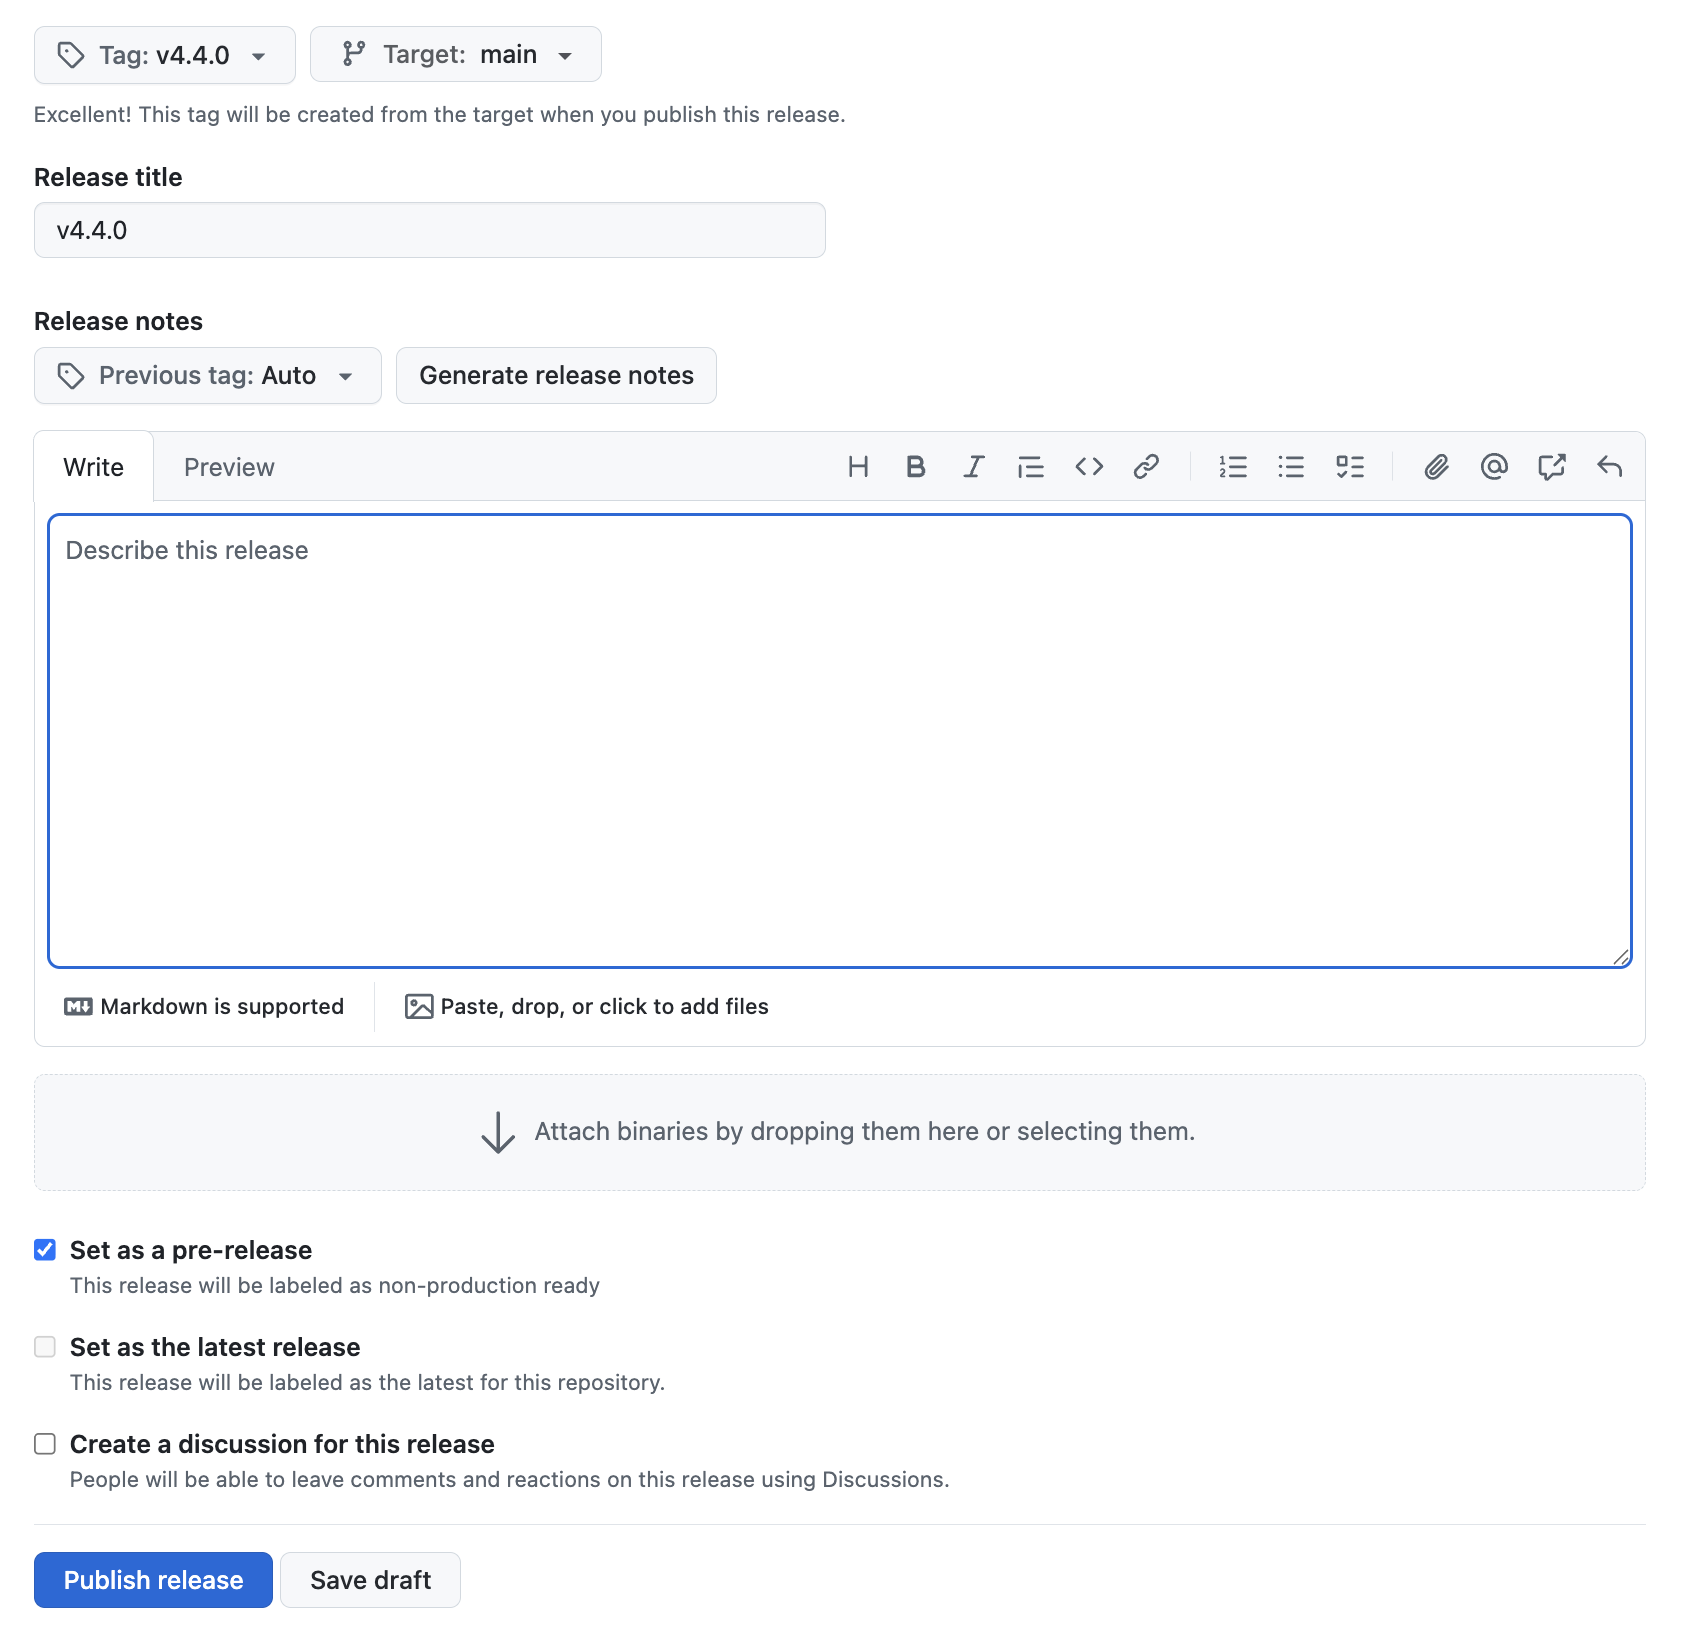
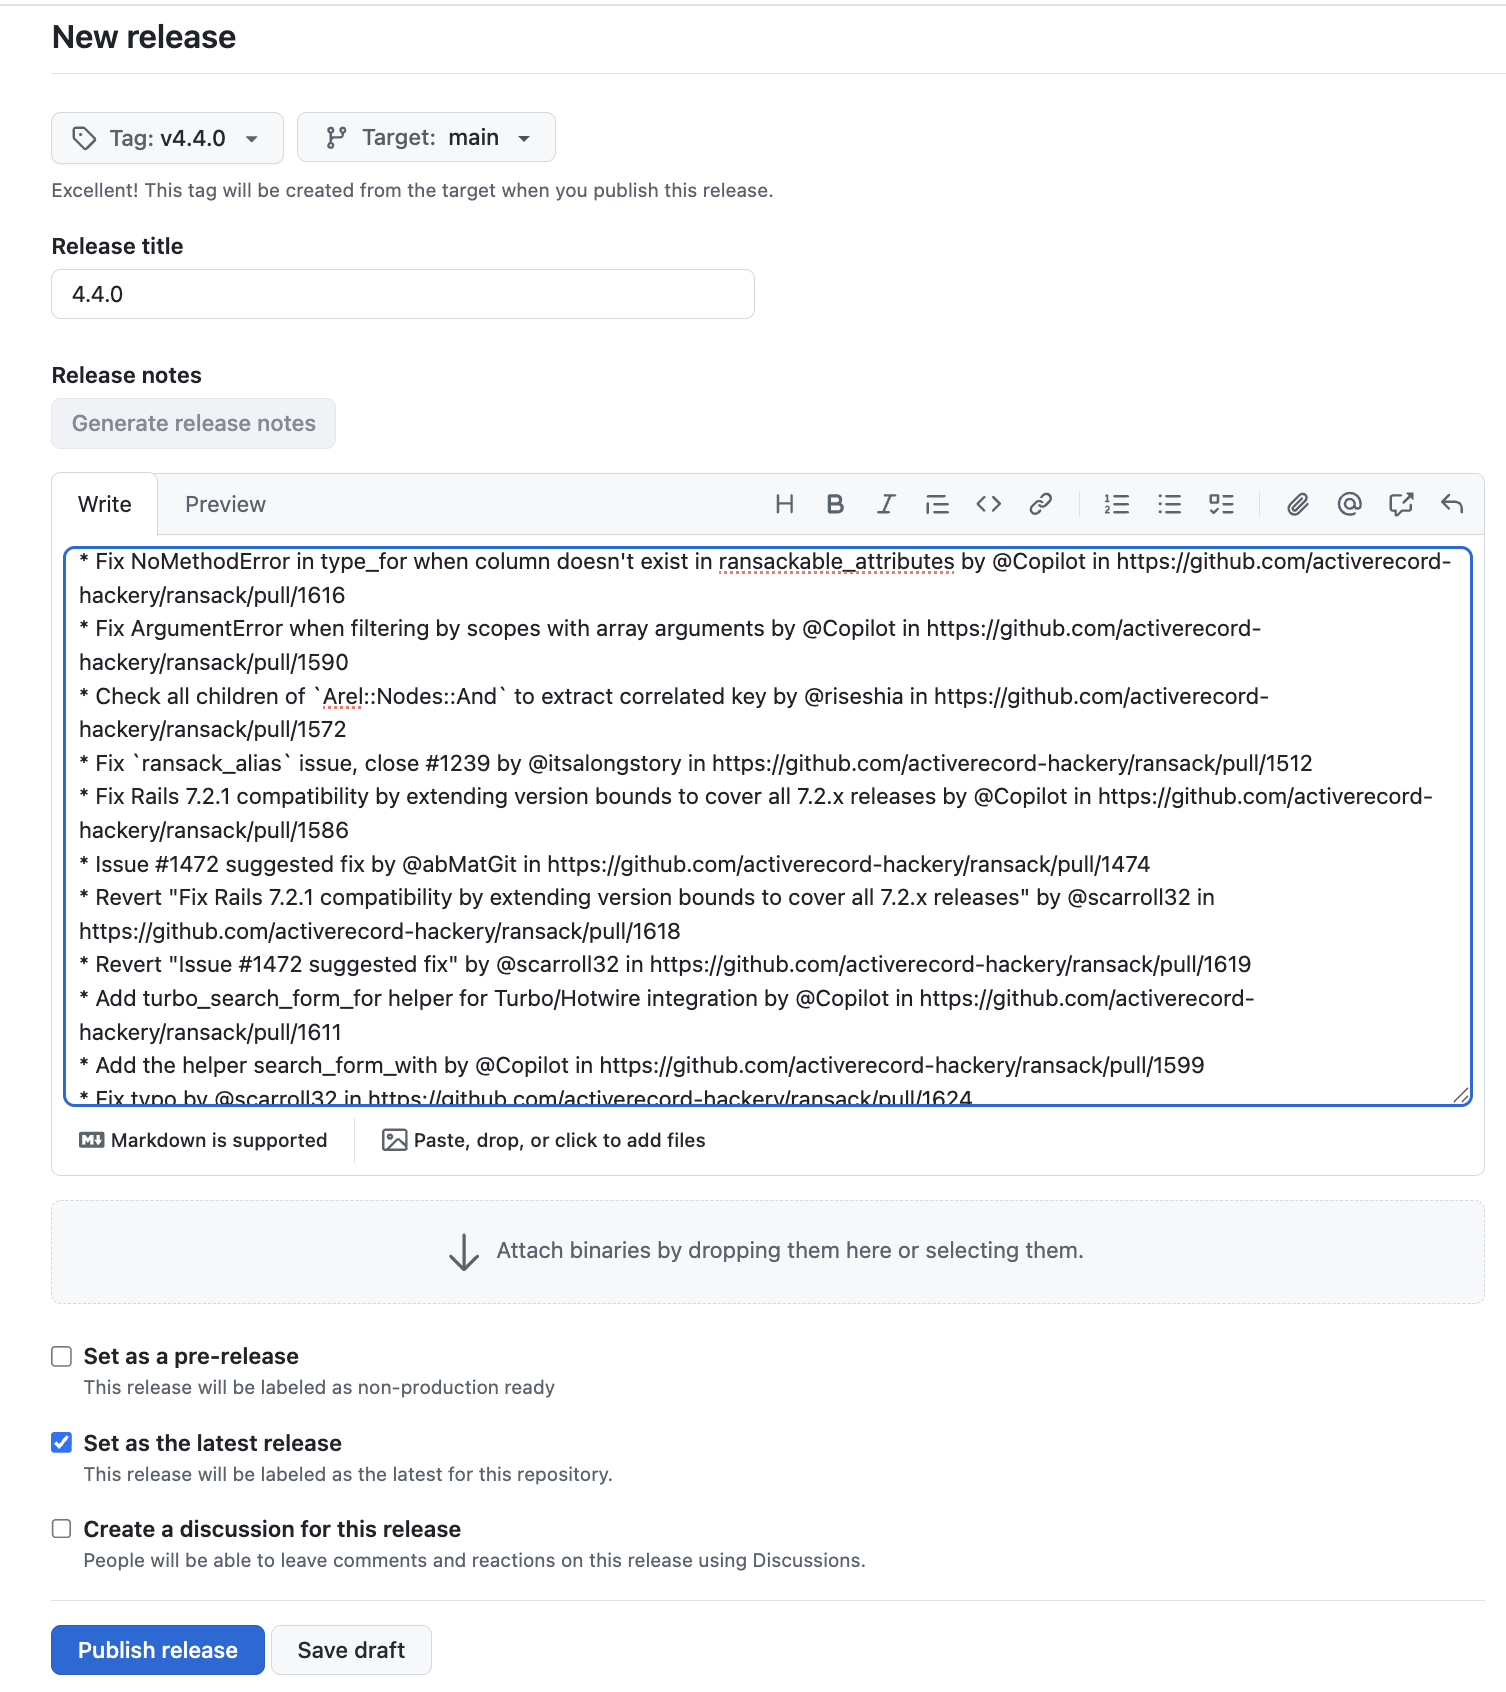
Update release documentation

Changed region(s): [[0.0312, 0.0, 0.9987, 0.7454], [0.0, 0.7454, 0.5618, 0.9939], [0.2497, 0.2174, 0.4057, 0.2485]]

diff --git a/docs/docs/going-further/release_process.md b/docs/docs/going-further/release_process.md
@@ -25,32 +25,23 @@ To release a new version of Ransack and publish it to RubyGems, take the followi
 
 ### Manual Release Process
 
-1. Update the [`version.rb`](https://github.com/activerecord-hackery/ransack/lib/ransack/version.rb) file to the new release, commit and push to `main`.
-2. Create a new release, e.g: v4.4.0 and mark it `Prerelease`.
-3. Click the **"Generate release notes"** button to automatically populate the release notes with commits since the last tag.
-4. Create and push a tag with the same name:
-   ```bash
-   git tag v4.4.0
-   git push origin v4.4.0
-   ```
-5. From the terminal, run the following commands:
+Example for release 4.4.0 
+
+1. Update the [`version.rb`](https://github.com/activerecord-hackery/ransack/lib/ransack/version.rb) file to the `4.4.0`, commit and push to `main`.
+3. Click the [Draft a new Release](https://github.com/activerecord-hackery/ransack/releases/new) button 
+4. Use these settings:
+- Tag: v4.4.0
+- Release Title: 4.4.0
+- Check `Set as the Latest Release`
+- Click `Generate release notes`
+- Click `Publish Release`
+
+5. Release to RubyGems From the terminal
 
 ```bash
 rake build
 rake release
 ```
 
-**GitHub Release UI**
-- **Tag**: v4.4.0
-- **Target**: main  
-- **Release title**: v4.4.0 (auto-filled)
-- **Release notes**: Click **"Generate release notes"** to auto-populate using the configured categories
-- **Set as a pre-release**: **Checked** (required for step 2)
-- **Set as the latest release**: Unchecked (correct for prerelease)
-- **Action**: Click **"Publish release"** (not "Save draft")
-
-### Release Notes Configuration
-
-The repository includes a release configuration file (`.github/release.yml`) that customizes how release notes are organized when using GitHub's "Generate release notes" button.
 
 
